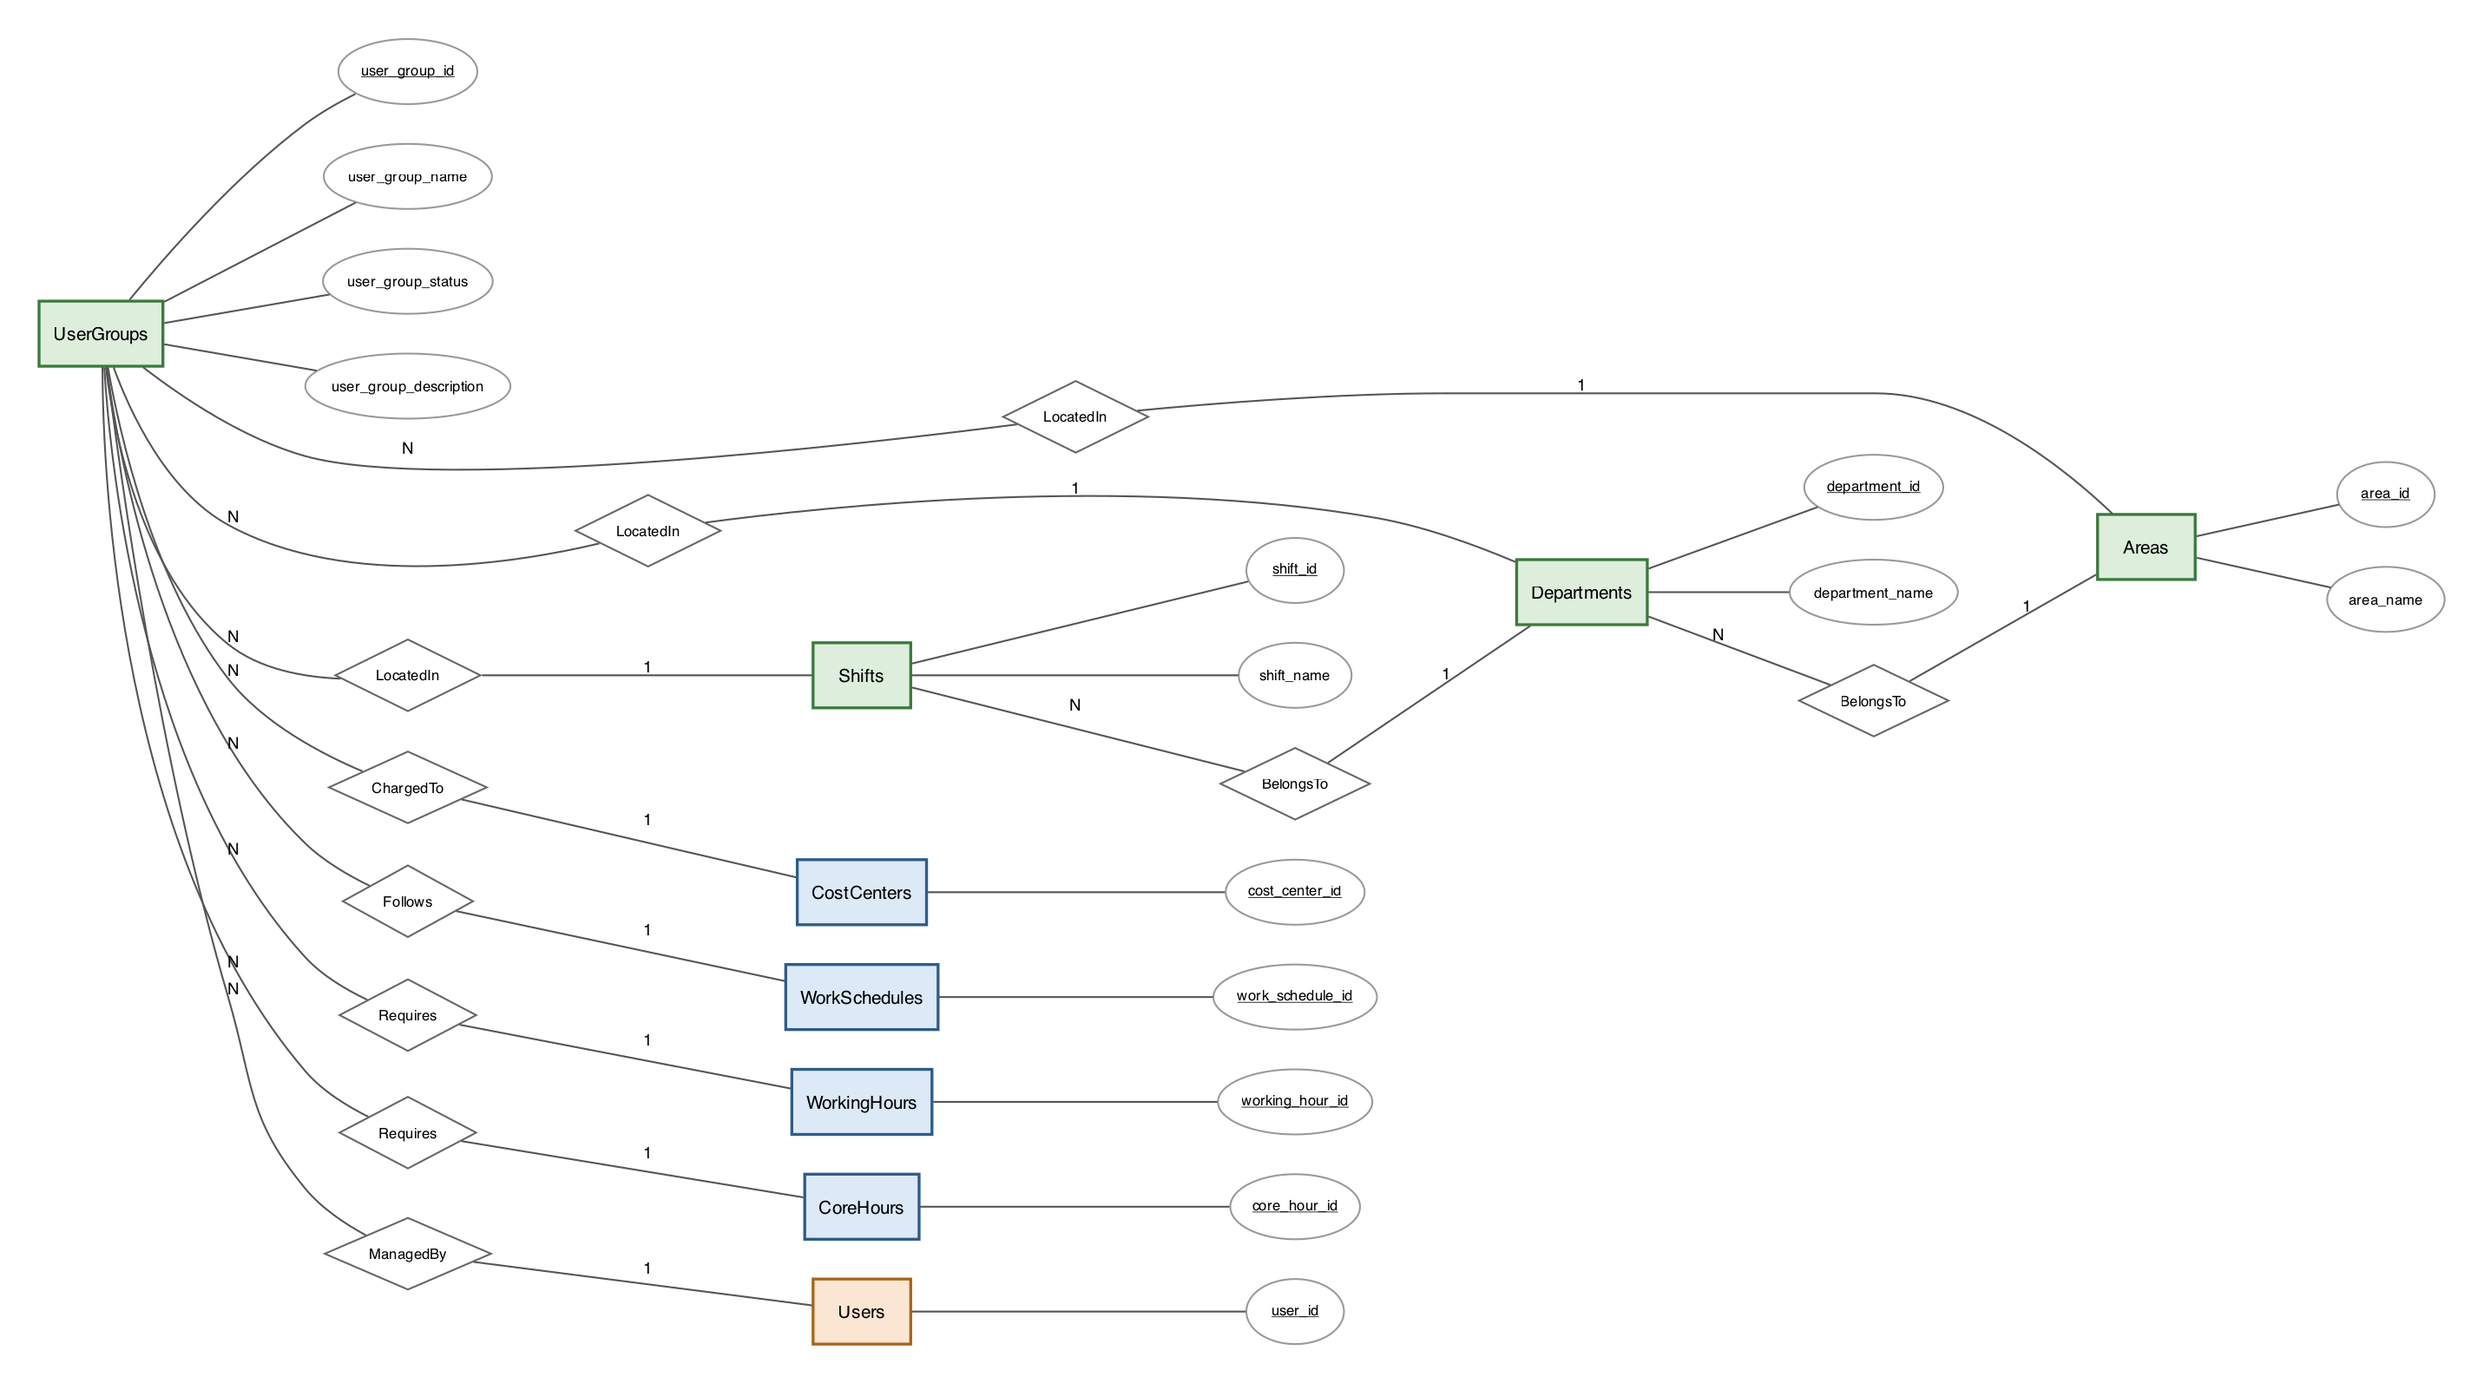
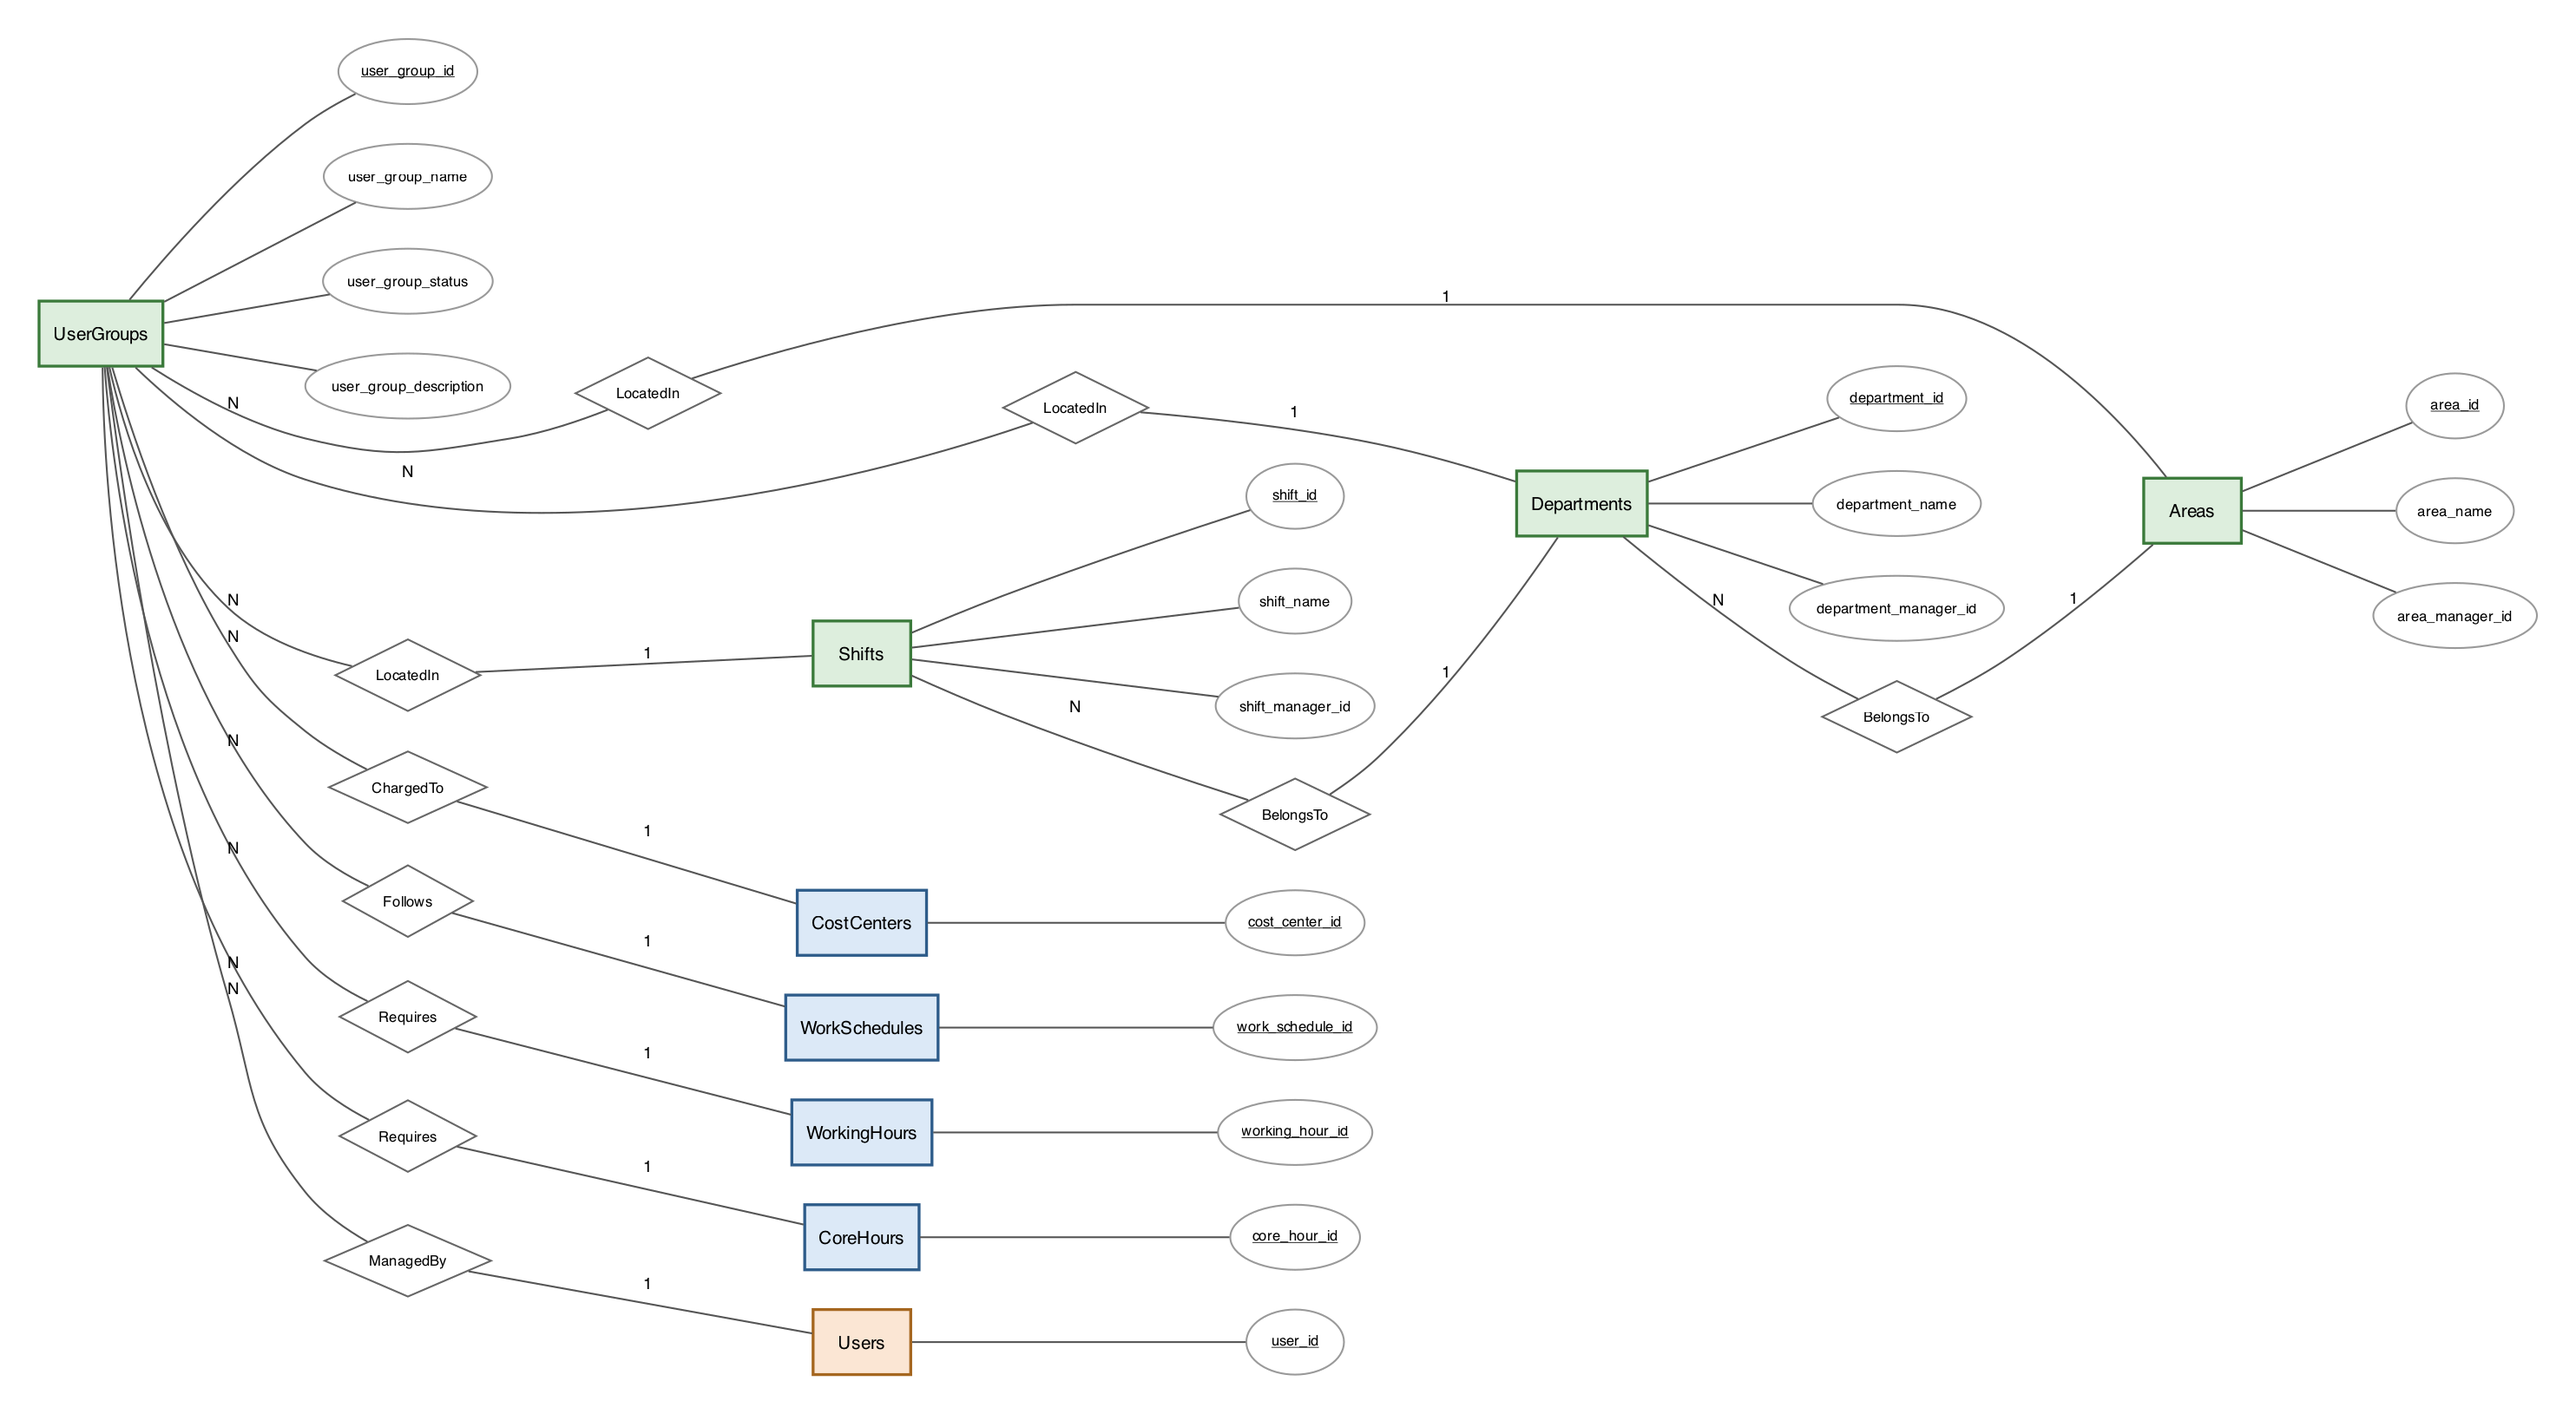
Az ER-ábrák frissítése a szervezeti vezetői oszlopokkal
A generátor fájllistája kiegészült a szervezeti vezetőket bevezető migrációval, így a terület, a részleg és a műszak vezetői oszlopa megjelenik a szervezeti részdiagramon.

diff --git a/docs/diagram/generate_er.py b/docs/diagram/generate_er.py
@@ -44,7 +44,7 @@ MIGRACIOK = os.path.join(ITT, "..", "..", "backend", "migrations")
 FAJLOK = ["001_torzsadatok.sql", "002_szervezet.sql",
           "003_dolgozok.sql", "004_mukodes.sql", 
           "006_elrendeles.sql", "007_beosztas_es_szabadsagkeret.sql",
-          "011_potlek_jogcimkodok.sql", "012_berkodok.sql"
+          "011_potlek_jogcimkodok.sql", "012_berkodok.sql", "014_szervezeti_vezetok.sql"
           ]
 
 TIPUSOK = (r"(?:INT|TINYINT|BOOLEAN|VARCHAR\(\d+\)|DATETIME|DATE|TIME"
